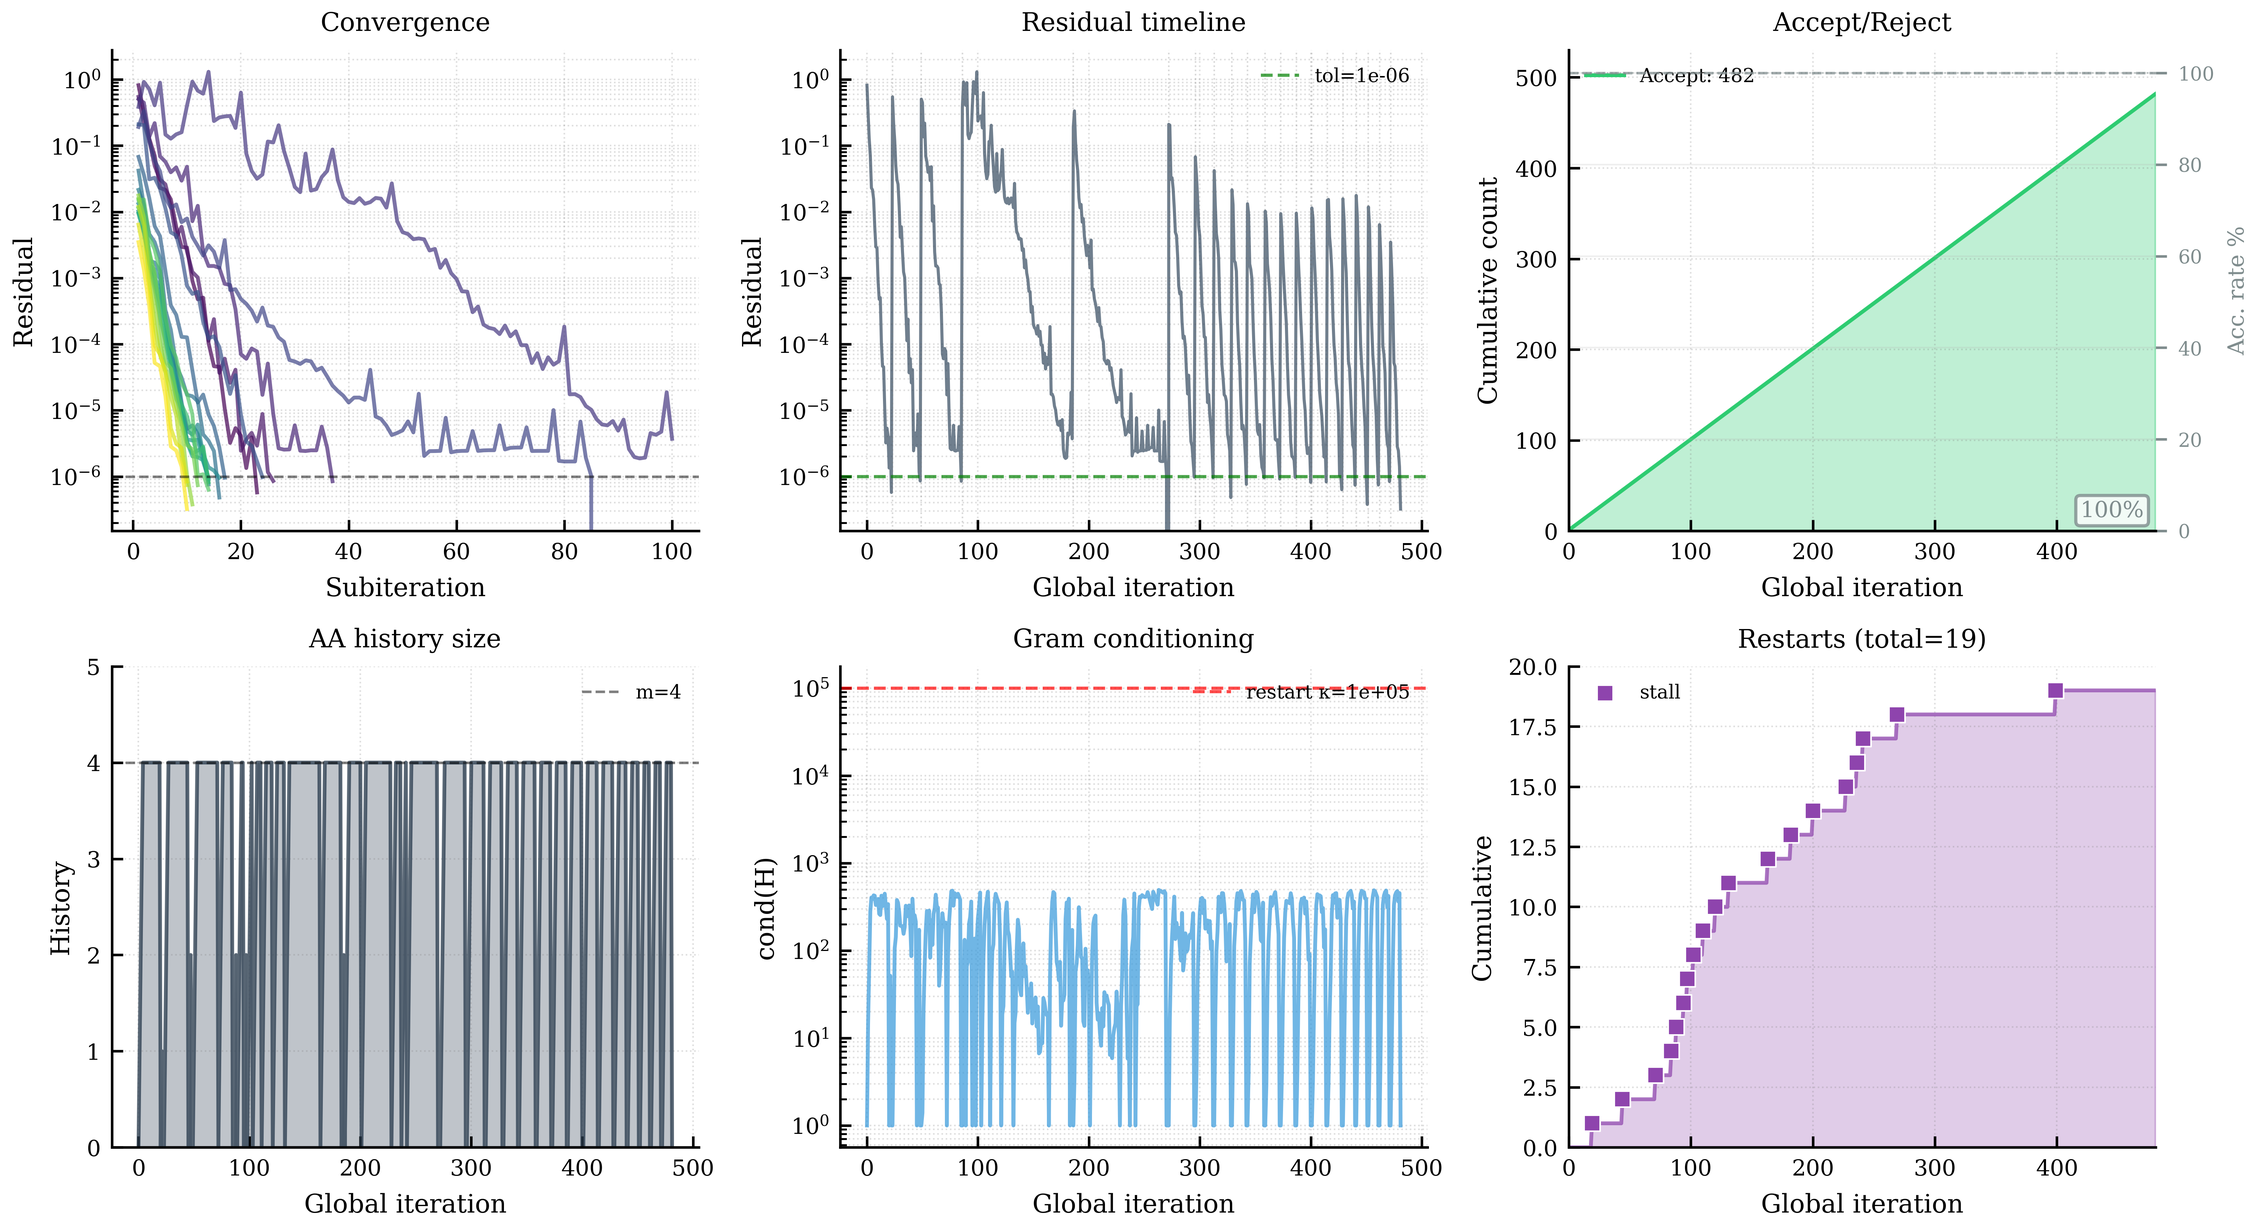
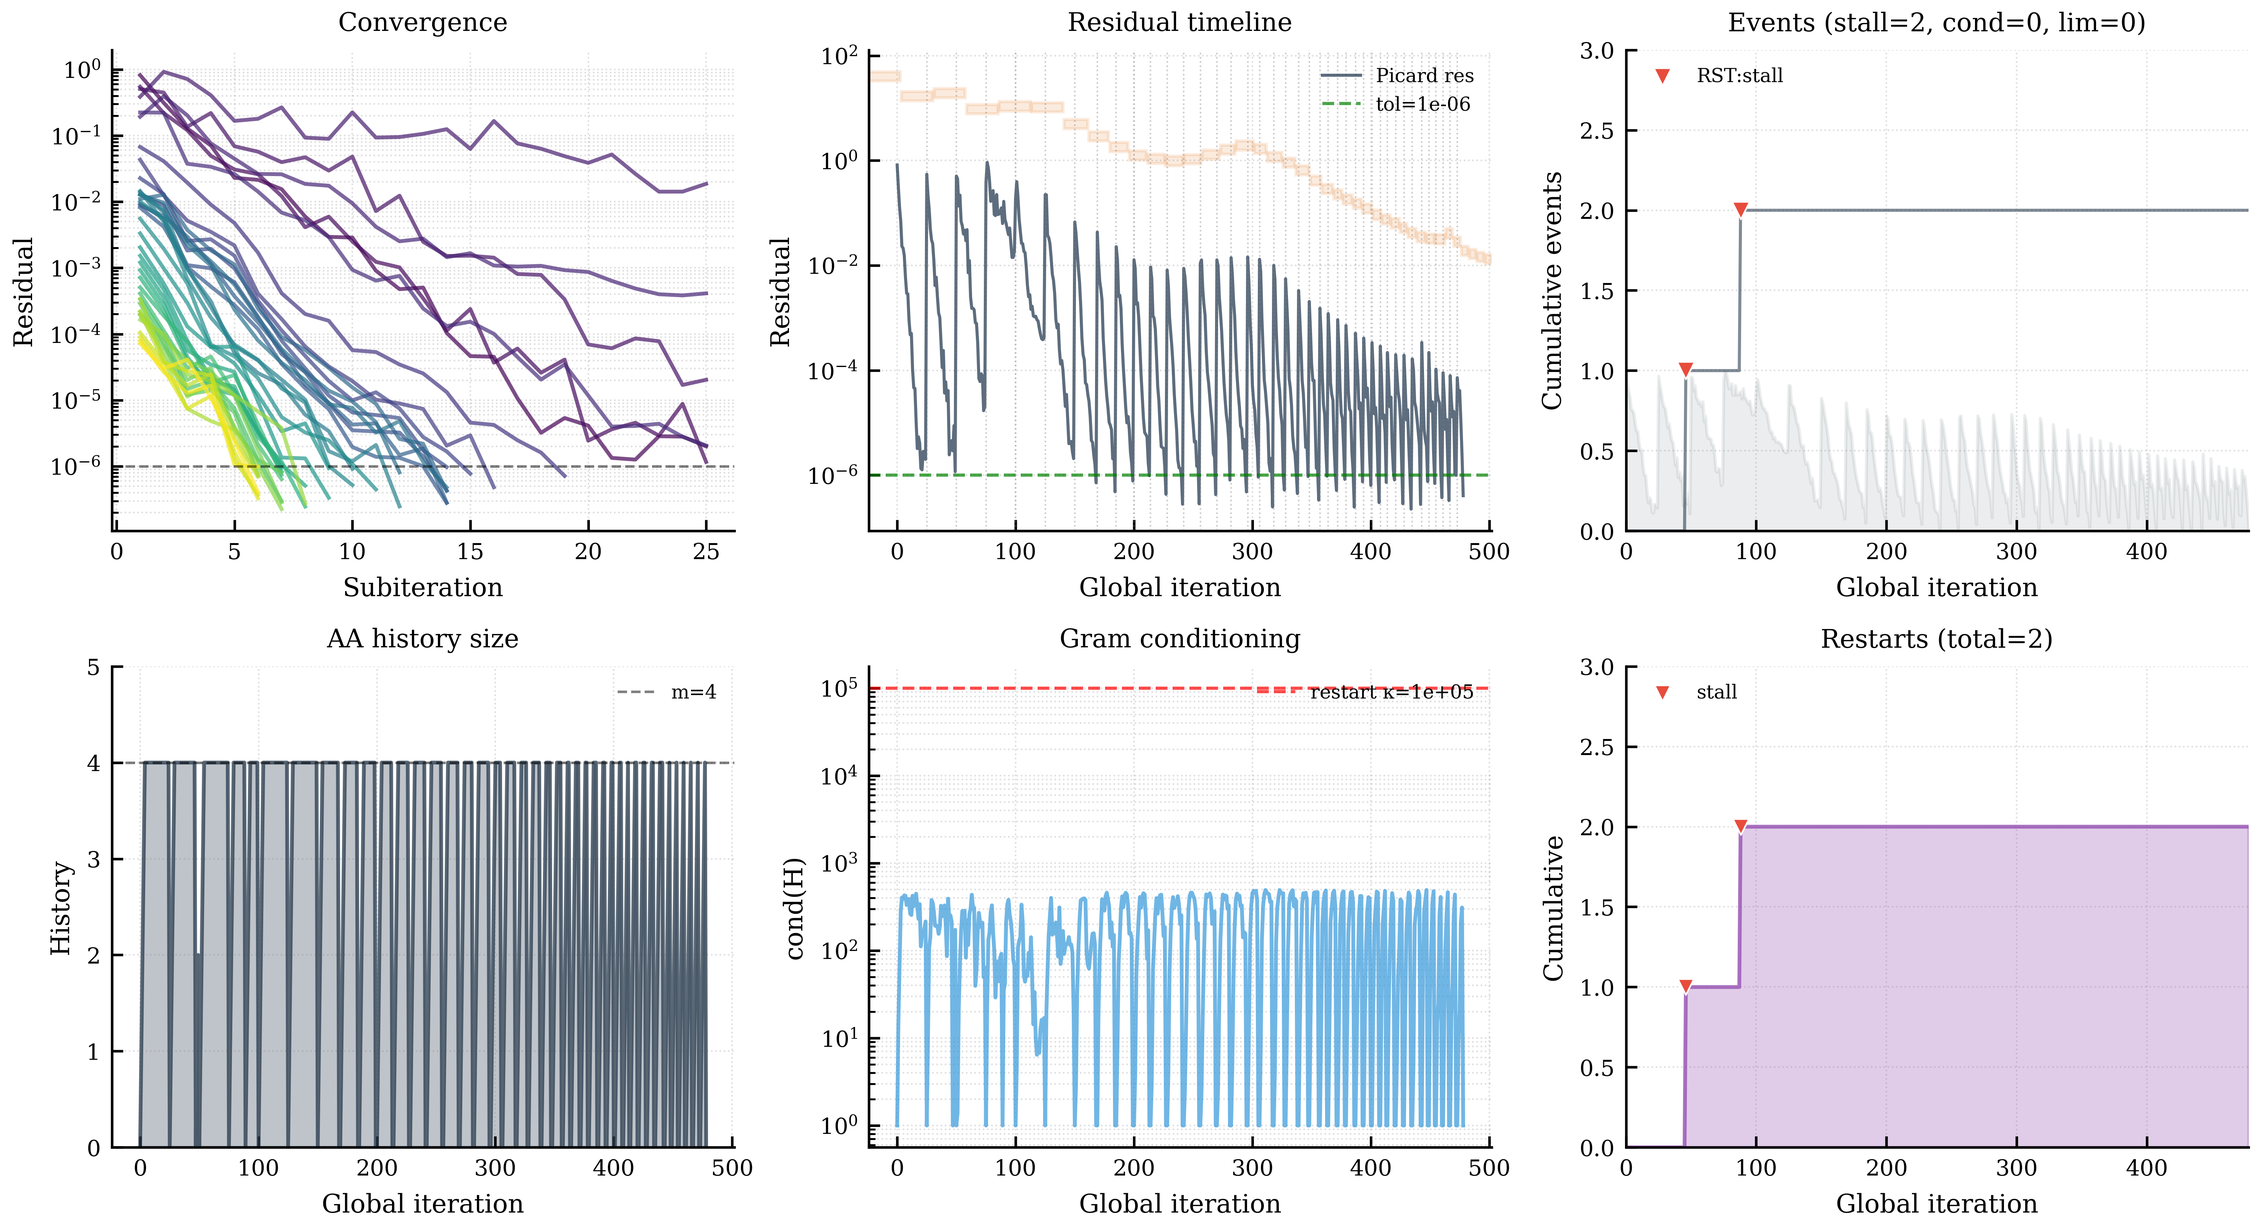
Enhance Anderson diagnostic plot and metrics storage: update event tracking for restarts and step limiting; improve residual timeline visualization with wRMS error; adjust metrics storage to include 'limited' status.

diff --git a/analysis/anderson_diagnostic_plot.py b/analysis/anderson_diagnostic_plot.py
@@ -2,13 +2,13 @@
 
 Multi-panel figure showing Anderson accelerator behavior:
 - Convergence curves (residual vs subiteration)
-- Acceptance/rejection events
-- Restart events and reasons
+- Event timeline (restarts: stall/cond, step limiting)
+- Residual timeline with step boundaries
 - Gram matrix conditioning
 - History size evolution
 
 Input:
-    results/<run_dir>/ containing subiterations.csv and config.json
+    results/<run_dir>/ containing subiterations.csv, steps.csv and config.json
 
 Output:
     manuscript/images/anderson_diagnostic.png
@@ -49,10 +49,10 @@ DEFAULT_RUN_DIR = Path(".results_box/")
 OUTPUT_FILE = Path("manuscript/images/anderson_diagnostic.png")
 
 # Colors for events
-COLOR_ACCEPT = "#2ecc71"  # Green
-COLOR_REJECT = "#e74c3c"  # Red
-COLOR_RESTART = "#9b59b6"  # Purple
-COLOR_COND = "#3498db"  # Blue
+COLOR_STALL = "#e74c3c"   # Red - stall restart
+COLOR_COND = "#3498db"    # Blue - condition restart / conditioning line
+COLOR_LIMITED = "#f39c12" # Orange - step limiting
+COLOR_RESTART = "#9b59b6" # Purple - general restart (for cumulative plot)
 
 
 # =============================================================================
@@ -81,21 +81,8 @@ def print_statistics(subiters: pd.DataFrame, config: dict, run_dir: Path) -> Non
         f"max={subiters_per_step.max()}, mean={subiters_per_step.mean():.1f}"
     )
 
-    if "accepted" in subiters.columns:
-        acc_rate = subiters["accepted"].mean() * 100
-        rej_count = (~subiters["accepted"].astype(bool)).sum()
-        print(f"AA acceptance rate: {acc_rate:.1f}% ({rej_count} rejections)")
-        
-        # Show rejection reasons if available
-        if "reject_reason" in subiters.columns and rej_count > 0:
-            rej_reasons = subiters.loc[~subiters["accepted"].astype(bool), "reject_reason"]
-            rej_reasons = rej_reasons[rej_reasons.astype(str).str.len() > 0]
-            if len(rej_reasons) > 0:
-                for reason, count in rej_reasons.value_counts().items():
-                    print(f"  - {reason}: {count}")
-
+    # Restart events
     if "restart" in subiters.columns:
-        # restart column contains 0/1 (bool)
         restart_count = subiters["restart"].astype(bool).sum()
         print(f"AA restarts: {restart_count}")
         
@@ -104,8 +91,19 @@ def print_statistics(subiters: pd.DataFrame, config: dict, run_dir: Path) -> Non
             rst_reasons = subiters.loc[subiters["restart"].astype(bool), "restart_reason"]
             rst_reasons = rst_reasons[rst_reasons.astype(str).str.len() > 0]
             if len(rst_reasons) > 0:
-                for reason, count in rst_reasons.value_counts().items():
-                    print(f"  - {reason}: {count}")
+                # Group by prefix (stall, cond)
+                stall_count = sum(1 for r in rst_reasons if str(r).startswith("stall"))
+                cond_count = sum(1 for r in rst_reasons if str(r).startswith("cond"))
+                if stall_count:
+                    print(f"  - stall: {stall_count}")
+                if cond_count:
+                    print(f"  - cond: {cond_count}")
+    
+    # Step limiting events
+    if "limited" in subiters.columns:
+        lim_count = subiters["limited"].astype(bool).sum()
+        lim_rate = 100 * lim_count / max(len(subiters), 1)
+        print(f"Step limiting events: {lim_count} ({lim_rate:.1f}%)")
 
     if "condH" in subiters.columns:
         cond_vals = subiters["condH"].replace([np.inf, -np.inf], np.nan).dropna()
@@ -151,101 +149,87 @@ def plot_convergence(ax: plt.Axes, subiters: pd.DataFrame, config: dict) -> None
     ax.set_title("Convergence", fontsize=8)
 
 
-# Markers and colors for reject reasons
-REJECT_MARKERS = {
-    "res_increase": ("^", "#e74c3c"),   # red triangle up
-    "bt_fail": ("v", "#c0392b"),         # dark red triangle down
-    "": ("x", "#e74c3c"),                 # default red x
+# Markers for restart reasons
+RESTART_MARKERS = {
+    "stall": ("v", COLOR_STALL),   # Red triangle down - stall
+    "cond": ("d", COLOR_COND),     # Blue diamond - condition
 }
 
-# Window size for running acceptance rate
-ACCEPTANCE_WINDOW = 20
 
-
-def plot_acceptance(ax: plt.Axes, subiters: pd.DataFrame, global_idx: np.ndarray) -> None:
-    """Plot cumulative accept/reject counts with running acceptance rate.
+def plot_events(ax: plt.Axes, subiters: pd.DataFrame, global_idx: np.ndarray) -> None:
+    """Plot AA events timeline: restarts (stall/cond) and step limiting.
     
     Shows:
-    - Left axis: Cumulative accept (green) and reject (red) counts as lines
-    - Right axis: Running acceptance rate (%) as gray dashed line
-    - Markers on reject curve showing reason types
+    - Background: residual magnitude as gray fill
+    - Markers: restart events (stall=red, cond=blue) and limiting (orange)
+    - Right axis: cumulative event count
     """
-    if "accepted" not in subiters.columns:
-        ax.text(0.5, 0.5, "No acceptance data", ha="center", va="center", transform=ax.transAxes)
-        return
-
-    accepted = subiters["accepted"].astype(bool).values
-    rejected = ~accepted
+    n_total = len(subiters)
     
-    n_acc = accepted.sum()
-    n_rej = rejected.sum()
+    # Background: residual magnitude (semi-log)
+    if "proj_res" in subiters.columns:
+        res = subiters["proj_res"].values
+        res_log = np.log10(np.clip(res, 1e-12, None))
+        res_norm = (res_log - res_log.min()) / max(res_log.max() - res_log.min(), 1e-10)
+        ax.fill_between(global_idx, 0, res_norm, alpha=0.15, color="#7f8c8d", label=None)
     
-    # Cumulative counts
-    cum_accept = np.cumsum(accepted.astype(int))
-    cum_reject = np.cumsum(rejected.astype(int))
+    # Collect events
+    events = []  # (idx, event_type, color, marker)
     
-    # Plot cumulative accept (green area)
-    ax.fill_between(global_idx, 0, cum_accept, alpha=0.3, color=COLOR_ACCEPT)
-    ax.plot(global_idx, cum_accept, color=COLOR_ACCEPT, linewidth=PLOT_LINEWIDTH,
-            label=f"Accept: {n_acc}")
+    # Restart events
+    if "restart" in subiters.columns:
+        restart_mask = subiters["restart"].astype(bool).values
+        if restart_mask.any() and "restart_reason" in subiters.columns:
+            reasons = subiters["restart_reason"].fillna("").astype(str).values
+            for prefix, (marker, color) in RESTART_MARKERS.items():
+                mask = restart_mask & np.array([str(r).startswith(prefix) for r in reasons])
+                for idx in np.where(mask)[0]:
+                    events.append((idx, f"RST:{prefix}", color, marker))
     
-    # Plot cumulative reject (red area, stacked on top if any)
-    if n_rej > 0:
-        ax.fill_between(global_idx, 0, cum_reject, alpha=0.3, color=COLOR_REJECT)
-        ax.plot(global_idx, cum_reject, color=COLOR_REJECT, linewidth=PLOT_LINEWIDTH,
-                label=f"Reject: {n_rej}")
+    # Step limiting events
+    if "limited" in subiters.columns:
+        limited_mask = subiters["limited"].astype(bool).values
+        for idx in np.where(limited_mask)[0]:
+            events.append((idx, "LIM", COLOR_LIMITED, "o"))
+    
+    # Sort events by index
+    events.sort(key=lambda x: x[0])
+    
+    # Plot cumulative event counts and markers
+    if events:
+        event_indices = [e[0] for e in events]
+        event_colors = [e[2] for e in events]
+        event_markers = [e[3] for e in events]
         
-        # Mark reject events with reason-specific markers
-        if "reject_reason" in subiters.columns:
-            reasons = subiters["reject_reason"].fillna("").astype(str).values
-            plotted_reasons = set()
-            for reason, (marker, color) in REJECT_MARKERS.items():
-                mask = rejected & (reasons == reason)
-                if mask.any():
-                    label = reason if reason and reason not in plotted_reasons else None
-                    ax.scatter(global_idx[mask], cum_reject[mask],
-                               c=color, s=20, marker=marker, zorder=5,
-                               edgecolors="white", linewidths=0.5, label=label)
-                    plotted_reasons.add(reason)
-        else:
-            # Just mark reject points
-            ax.scatter(global_idx[rejected], cum_reject[rejected],
-                       c=COLOR_REJECT, s=15, marker="x", zorder=5)
+        # Cumulative count line
+        cum_events = np.zeros(n_total, dtype=int)
+        for i, idx in enumerate(event_indices):
+            cum_events[idx:] = i + 1
+        
+        ax.plot(global_idx, cum_events, color="#2c3e50", linewidth=PLOT_LINEWIDTH * 0.8,
+                alpha=0.6)
+        
+        # Mark individual events with type-specific markers
+        plotted_types = set()
+        for idx, etype, color, marker in events:
+            label = etype if etype not in plotted_types else None
+            ax.scatter([global_idx[idx]], [cum_events[idx]], c=color, s=30, 
+                       marker=marker, zorder=5, edgecolors="white", linewidths=0.5, 
+                       label=label)
+            plotted_types.add(etype)
     
-    # Secondary axis: Running acceptance rate
-    ax2 = ax.twinx()
-    window = min(ACCEPTANCE_WINDOW, len(accepted))
-    if window > 0:
-        # Use pandas rolling for efficiency
-        acc_series = pd.Series(accepted.astype(float))
-        running_rate = acc_series.rolling(window=window, min_periods=1).mean() * 100
-        ax2.plot(global_idx, running_rate, color="#7f8c8d", linewidth=0.8,
-                 linestyle="--", alpha=0.7, label=f"Rate (w={window})")
-        ax2.set_ylim(0, 105)
-        ax2.set_ylabel("Acc. rate %", fontsize=7, color="#7f8c8d")
-        ax2.tick_params(axis='y', labelsize=6, colors="#7f8c8d")
-        ax2.axhline(100, color="#7f8c8d", linestyle=":", linewidth=0.5, alpha=0.5)
-    
-    # Final acceptance rate annotation
-    final_rate = 100 * n_acc / max(n_acc + n_rej, 1)
-    ax.annotate(f"{final_rate:.0f}%", xy=(0.98, 0.02), xycoords="axes fraction",
-                ha="right", va="bottom", fontsize=7, color="#7f8c8d",
-                bbox=dict(boxstyle="round,pad=0.2", fc="white", ec="#7f8c8d", alpha=0.8))
+    # Count summary
+    n_stall = sum(1 for e in events if e[1] == "RST:stall")
+    n_cond = sum(1 for e in events if e[1] == "RST:cond")
+    n_lim = sum(1 for e in events if e[1] == "LIM")
     
     ax.set_xlim(global_idx.min(), global_idx.max())
-    ax.set_ylim(0, max(cum_accept.max(), cum_reject.max() if n_rej > 0 else 1) * 1.1)
-    ax.legend(loc="upper left", fontsize=6, framealpha=0.8)
-    setup_axis_style(ax, xlabel="Global iteration", ylabel="Cumulative count", title="", loglog=False)
-    ax.set_title("Accept/Reject", fontsize=8)
-
-
-# Markers and colors for restart reasons
-RESTART_MARKERS = {
-    "reject_streak": ("o", "#9b59b6"),    # purple circle
-    "stall": ("s", "#8e44ad"),             # dark purple square  
-    "cond": ("d", "#6c3483"),              # diamond
-    "": ("o", "#9b59b6"),                   # default
-}
+    ax.set_ylim(0, max(len(events) + 1, 1))
+    if events:
+        ax.legend(loc="upper left", fontsize=6, framealpha=0.8)
+    
+    setup_axis_style(ax, xlabel="Global iteration", ylabel="Cumulative events", title="", loglog=False)
+    ax.set_title(f"Events (stall={n_stall}, cond={n_cond}, lim={n_lim})", fontsize=8)
 
 
 def plot_restarts(ax: plt.Axes, subiters: pd.DataFrame, global_idx: np.ndarray) -> None:
@@ -344,27 +328,62 @@ def plot_history_size(ax: plt.Axes, subiters: pd.DataFrame, global_idx: np.ndarr
     ax.set_title("AA history size", fontsize=8)
 
 
-def plot_residual_timeline(ax: plt.Axes, subiters: pd.DataFrame, global_idx: np.ndarray, config: dict) -> None:
-    """Plot residual evolution as a timeline."""
+def plot_residual_timeline(
+    ax: plt.Axes, 
+    subiters: pd.DataFrame, 
+    global_idx: np.ndarray, 
+    config: dict,
+    steps: pd.DataFrame | None = None,
+) -> None:
+    """Plot residual evolution with step boundaries and wRMS error.
+    
+    Shows:
+    - Primary: Picard residual per iteration (semi-log)
+    - Background: wRMS time-integration error at step boundaries (shaded)
+    - Vertical lines at timestep boundaries
+    """
     if "proj_res" not in subiters.columns:
         return
 
     res = subiters["proj_res"].values
 
-    ax.semilogy(global_idx, res, color="#34495e", linewidth=PLOT_LINEWIDTH * 0.8, alpha=0.7)
+    ax.semilogy(global_idx, res, color="#34495e", linewidth=PLOT_LINEWIDTH * 0.8, 
+                alpha=0.8, label="Picard res")
 
-    # Mark step boundaries
-    step_changes = np.where(np.diff(subiters["step"].values) != 0)[0] + 1
-    for sc in step_changes:
-        ax.axvline(global_idx[sc], color="gray", linestyle=":", linewidth=0.5, alpha=0.3)
+    # Mark step boundaries and optionally show wRMS
+    step_arr = subiters["step"].values
+    step_changes = np.where(np.diff(step_arr) != 0)[0] + 1
+    step_changes = np.concatenate([[0], step_changes])  # Include first
+    
+    # Plot wRMS error from steps data as background bars
+    if steps is not None and "error_norm" in steps.columns and len(step_changes) > 0:
+        # Map step number to global_idx range and error_norm
+        for i, sc_start in enumerate(step_changes):
+            sc_end = step_changes[i + 1] if i + 1 < len(step_changes) else len(global_idx)
+            step_num = step_arr[sc_start]
+            
+            # Find matching step in steps DataFrame
+            step_row = steps[steps["step"] == step_num]
+            if len(step_row) > 0:
+                err = step_row["error_norm"].values[0]
+                if err > 0 and np.isfinite(err):
+                    # Draw horizontal bar at error level
+                    ax.axhspan(err * 0.8, err * 1.2, 
+                               xmin=(global_idx[sc_start] - global_idx[0]) / max(global_idx[-1] - global_idx[0], 1),
+                               xmax=(global_idx[sc_end - 1] - global_idx[0]) / max(global_idx[-1] - global_idx[0], 1),
+                               alpha=0.15, color="#e67e22", zorder=0)
+    
+    # Vertical lines at step boundaries (skip first)
+    for sc in step_changes[1:]:
+        ax.axvline(global_idx[sc], color="gray", linestyle=":", linewidth=0.5, alpha=0.4)
 
     # Convergence threshold from config
     solver_cfg = config.get("solver", {})
     coupling_tol = solver_cfg.get("coupling_tol", 1e-6)
     ax.axhline(coupling_tol, color="g", linestyle="--", linewidth=1.0, alpha=0.7,
                label=f"tol={coupling_tol:.0e}")
+    
     ax.legend(loc="upper right", fontsize=6, framealpha=0.8)
-
     setup_axis_style(ax, xlabel="Global iteration", ylabel="Residual", title="", loglog=False)
     ax.set_title("Residual timeline", fontsize=8)
 
@@ -385,6 +404,7 @@ def main() -> None:
     loader = SimulationLoader(run_dir, MPI.COMM_SELF)
     config = loader.get_config()
     subiters = loader.get_subiterations_metrics()
+    steps = loader.get_steps_metrics()
 
     if subiters.empty:
         raise RuntimeError("No subiterations data found.")
@@ -398,10 +418,10 @@ def main() -> None:
     apply_style()
     fig, axes = plt.subplots(2, 3, figsize=(10, 5.5))
 
-    # Row 1: Convergence + Residual timeline + Accept/Reject
+    # Row 1: Convergence + Residual timeline (with wRMS) + Events (stall/cond/lim)
     plot_convergence(axes[0, 0], subiters, config)
-    plot_residual_timeline(axes[0, 1], subiters, global_idx, config)
-    plot_acceptance(axes[0, 2], subiters, global_idx)
+    plot_residual_timeline(axes[0, 1], subiters, global_idx, config, steps)
+    plot_events(axes[0, 2], subiters, global_idx)
 
     # Row 2: History size + Conditioning + Restarts
     plot_history_size(axes[1, 0], subiters, global_idx, config)

diff --git a/simulation/storage.py b/simulation/storage.py
@@ -96,7 +96,7 @@ class MetricsStorage:
         "step", "iter", "time_days", "proj_res", "aa_step_res",
         "mech_iters", "fab_iters", "stim_iters", "dens_iters",
         "mech_time", "fab_time", "stim_time", "dens_time",
-        "accepted", "reject_reason", "restart", "restart_reason",
+        "restart", "restart_reason", "limited",
         "condH", "aa_hist", "memory_mb",
     ]
 
@@ -238,10 +238,9 @@ class MetricsStorage:
                 "fab_time": iter_block_times.get("fab", 0.0),
                 "stim_time": iter_block_times.get("stim", 0.0),
                 "dens_time": iter_block_times.get("dens", 0.0),
-                "accepted": int(rec.get("aa_accepted", True)),
-                "reject_reason": str(rec.get("aa_reject_reason", "")),
                 "restart": 1 if rec.get("aa_restart") else 0,
                 "restart_reason": str(rec.get("aa_restart", "")),
+                "limited": 1 if rec.get("aa_limited") else 0,
                 "condH": rec.get("condH", 0.0),
                 "aa_hist": rec.get("aa_hist", 0),
                 "memory_mb": rec.get("mem_mb", 0.0),

diff --git a/simulation/fixedsolver.py b/simulation/fixedsolver.py
@@ -258,8 +258,8 @@ class FixedPointSolver:
                 "picard_res": float(picard_res),
                 "aa_step_res": float(aa_step_res),
                 "aa_hist": int(aa.get("aa_hist", 0)),
-                "aa_accepted": bool(aa.get("accepted", True)),
                 "aa_restart": str(aa.get("restart_reason", "")),
+                "aa_limited": bool(aa.get("limited", False)),
                 "condH": float(cond_val) if cond_val is not None else 0.0,
                 "mem_mb": float(mem_mb),
                 "block_stats": sweep_stats,
